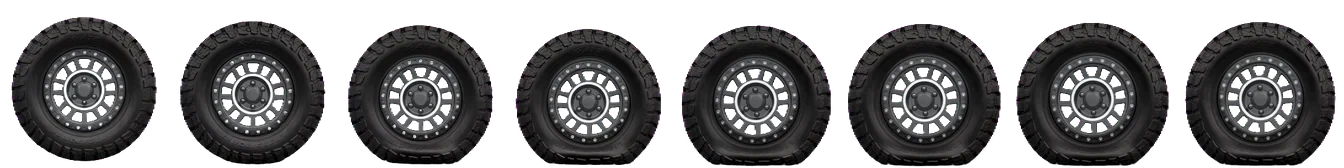
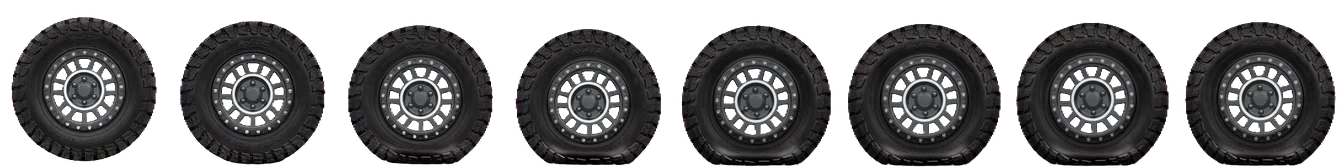
Заставка: с резины снят блик, из-за которого кадры вздрагивали
Вы показали ровно то место. В рендере на резине есть глянцевый
высвет, и он на каждом кадре лежит в своём месте: у катящегося
колеса он ездит по кругу вместе с картинкой, а в кадрах удара
сидит там, где его застал рендер. Отсюда и вздрагивание при
подмене — прошлая правка выравнивала только направленный свет,
одну гармонику, а локальное пятно ей не бралось.

Разделил их в полярных координатах. Рисунок протектора повторяется
по кругу с шагом около 9°, а высвет тянется на 60-90° — значит
достаточно сгладить яркость ТОЛЬКО по углу, окном в 25°, и
поделить на это. Уходит всё, что меняется по кругу медленнее
протектора: направленный свет, блик, затемнение у пятна контакта.
Форма по радиусу и вся мелкая фактура остаются нетронутыми —
протектор, боковина, надписи на месте.

Замерено по кольцу резины: разброс яркости по кругу у колеса
33% -> 2%, у восьми кадров удара 27..37% -> 3..15% (остаток на
смятых кадрах — от того, что круговые координаты на смятом колесе
врут). Свет в кадре теперь стоит намертво: при повороте колеса на
61° направление уходит на 3° вместо 15° до правки, верх 34.0 и низ
45.8-46.1 не меняются вовсе. Переход в контакт и обратно: наклон
низ-верх 7.3..10.8 против 8.4..9.2 вне контакта, средняя 38.8..42.9
сплошным рядом.

Трёхмерную модель делать не стал: её уже пробовали, и вы просили
взять именно этот рендер, а не воссоздавать его. Снятие блика
сохраняет присланную картинку и убирает прыжки.

Физика не тронута. Наборы тестов: API 59/59, мобильный UI 51/51,
[…]

diff --git a/public/splash.js b/public/splash.js
@@ -42,11 +42,14 @@
    הגומי, שגדלה עם קצב העיוות — מכה חזקה בולעת הרבה וקפיצה קטנה
    כמעט לא.
 
-   האור על הגומי אינו מסתובב. בקובץ הוא היה אפוי בתמונה, וכשהתמונה
-   מסתובבת מסתובב איתה גם האור — זה הסימן הכי חזק לכך שמסתובבת
-   תמונה ולא גוף. לכן הוצאנו מהקובץ את הרכיב הזוויתי של הבהירות
-   (18% ברנדר) והחזרנו אותו כשכבה שאינה מסתובבת: מואר מלמעלה, כהה
-   מלמטה. מה שמסתובב זה הפרוטקטור והכיתוב, כמו במציאות.
+   האור על הגומי אינו מסתובב. בקובץ הוא היה אפוי בתמונה — גם האור
+   הכיווני וגם הברק המבריק, כתם בהיר שיושב בכל קדר במקום אחר —
+   וכשהתמונה מסתובבת מסתובב איתו הכול. זה הסימן הכי חזק לכך
+   שמסתובבת תמונה ולא גוף, וברגע המעבר לקדרי הפגיעה הכתם קפץ.
+   לכן ניקינו את הגומי בקואורדינטות קוטביות: הפרוטקטור חוזר סביב
+   הגלגל כל 9 מעלות והברק נמרח על 60-90, ולכן החלקה של הבהירות
+   לפי הזווית בלבד, בחלון של 25 מעלות, מפרידה ביניהם. נשאר הגומי
+   עצמו (33% אי-אחידות ירדו ל-2%), וכל האור בא משכבה אחת במסך.
 
    שני דברים נוספים עושים את ההבדל בין תמונה שזזה לבין צילום. הראשון הוא
    טשטוש תנועה: בשיא הנפילה הגלגל עובר בין פריים לפריים כרבע

diff --git a/index.html b/index.html
@@ -493,7 +493,7 @@ svg{flex:none}
    התאים מתחלפים בלי לקפוץ. 117.5% = 168/143, יחס התא לגלגל. */
 #splash .wheel .hit{
   position:absolute;left:50%;width:117.5%;height:117.5%;transform:translateX(-50%);
-  background:url(/hit.webp?v=6) no-repeat;background-size:800% 100%;
+  background:url(/hit.webp?v=7) no-repeat;background-size:800% 100%;
   transform-origin:50% 98.214%;   /* קו הקרקע בתוך התא */
   display:none;will-change:background-position,top,transform;
 }
@@ -536,7 +536,7 @@ svg{flex:none}
       </svg>
       <span class="word" id="spWord">AUTOPARTS</span>
       <svg class="mb" aria-hidden="true"><filter id="spMB" x="-45%" y="-45%" width="190%" height="190%" color-interpolation-filters="sRGB"><feGaussianBlur id="spMBg" stdDeviation="0 0"/></filter></svg>
-      <span class="wheel" id="spWheel" aria-hidden="true"><span class="hub"></span><span class="cut" id="spCut"><img class="tyre" id="spTyre" src="/wheel.webp?v=14" alt="" draggable="false"><img class="rim" id="spRim" src="/wheel.webp?v=14" alt="" draggable="false"></span><span class="hit" id="spHit"></span><span class="lite" id="spLite"></span></span>
+      <span class="wheel" id="spWheel" aria-hidden="true"><span class="hub"></span><span class="cut" id="spCut"><img class="tyre" id="spTyre" src="/wheel.webp?v=15" alt="" draggable="false"><img class="rim" id="spRim" src="/wheel.webp?v=15" alt="" draggable="false"></span><span class="hit" id="spHit"></span><span class="lite" id="spLite"></span></span>
     </div>
     <span class="hint">מתחבר לשרת…</span>
   </div>

diff --git a/desktop.html b/desktop.html
@@ -273,7 +273,7 @@ tr:hover td{background:rgba(236,232,226,.45)}
    התאים מתחלפים בלי לקפוץ. 117.5% = 168/143, יחס התא לגלגל. */
 #splash .wheel .hit{
   position:absolute;left:50%;width:117.5%;height:117.5%;transform:translateX(-50%);
-  background:url(/hit.webp?v=6) no-repeat;background-size:800% 100%;
+  background:url(/hit.webp?v=7) no-repeat;background-size:800% 100%;
   transform-origin:50% 98.214%;   /* קו הקרקע בתוך התא */
   display:none;will-change:background-position,top,transform;
 }
@@ -312,7 +312,7 @@ tr:hover td{background:rgba(236,232,226,.45)}
     </svg>
     <span class="word" id="spWord">AUTOPARTS</span>
     <svg class="mb" aria-hidden="true"><filter id="spMB" x="-45%" y="-45%" width="190%" height="190%" color-interpolation-filters="sRGB"><feGaussianBlur id="spMBg" stdDeviation="0 0"/></filter></svg>
-    <span class="wheel" id="spWheel" aria-hidden="true"><span class="hub"></span><span class="cut" id="spCut"><img class="tyre" id="spTyre" src="/wheel.webp?v=14" alt="" draggable="false"><img class="rim" id="spRim" src="/wheel.webp?v=14" alt="" draggable="false"></span><span class="hit" id="spHit"></span><span class="lite" id="spLite"></span></span>
+    <span class="wheel" id="spWheel" aria-hidden="true"><span class="hub"></span><span class="cut" id="spCut"><img class="tyre" id="spTyre" src="/wheel.webp?v=15" alt="" draggable="false"><img class="rim" id="spRim" src="/wheel.webp?v=15" alt="" draggable="false"></span><span class="hit" id="spHit"></span><span class="lite" id="spLite"></span></span>
   </div>
 </div>
 
